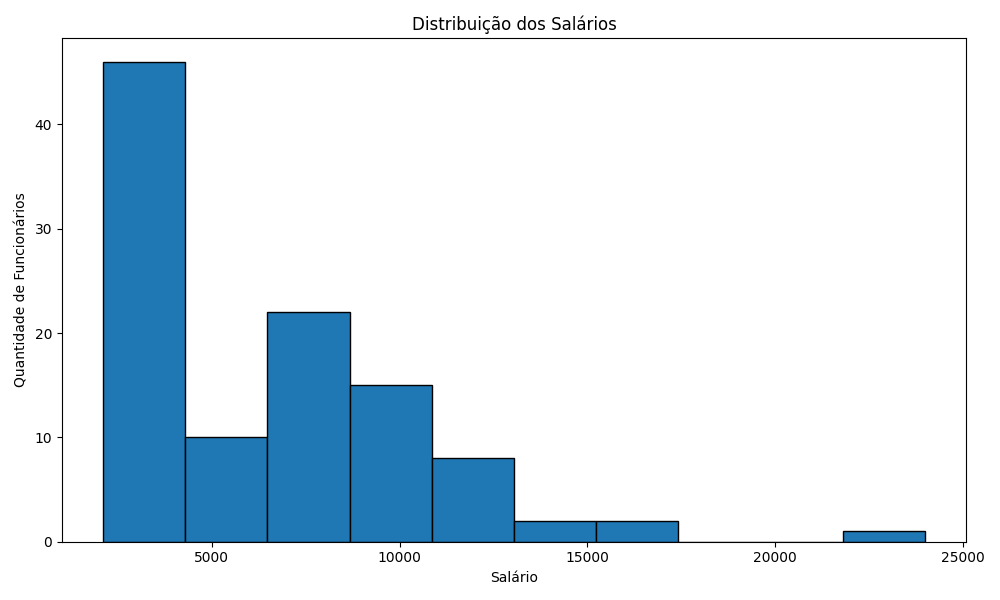
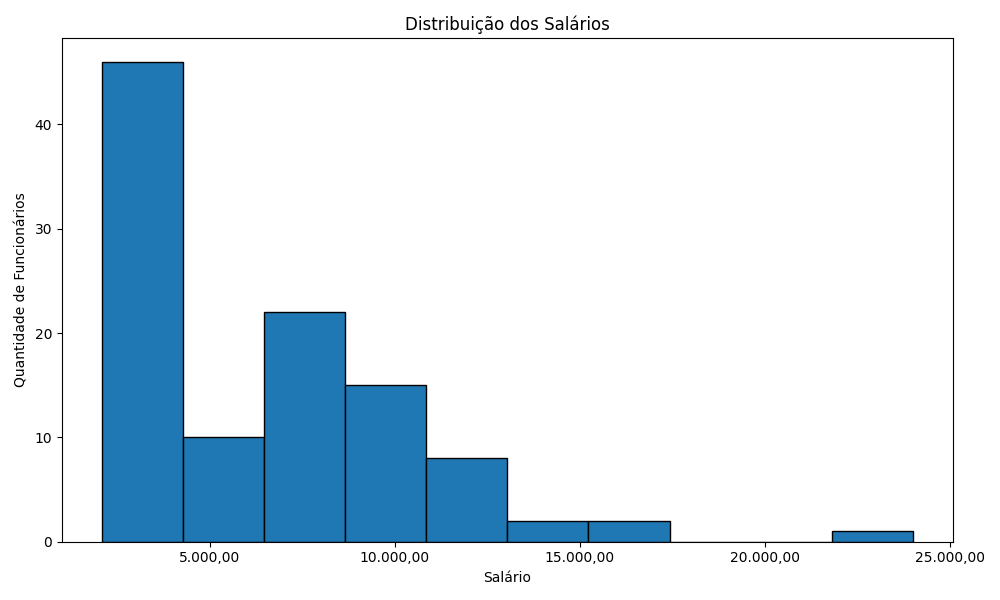
adiciona graficos ao README

diff --git a/projeto_final_s1.py b/projeto_final_s1.py
@@ -1,28 +1,26 @@
-# =====================================================
 # PROJETO FINAL - SEMESTRE 1
 # Análise Exploratória da Base HR
 # Aluno: Stefano Laurito
-# =====================================================
 
 import pandas as pd
 from pathlib import Path
 import matplotlib.pyplot as plt
+from matplotlib.ticker import FuncFormatter
 
-# =====================================================
+def formato_brasil(x, pos):
+    return f"{x:,.2f}".replace(",", "X").replace(".", ",").replace("X", ".")
+
 # ETAPA 1 - IMPORTAÇÃO DOS ARQUIVOS CSV
-# =====================================================
 
 pasta_projeto = Path(__file__).parent
 
-caminho_query1 = pasta_projeto / "consultas" / "query1.csv"
-caminho_query2 = pasta_projeto / "consultas" / "query2.csv"
+caminho_query1 = pasta_projeto / "consultas" / "query_01.csv"
+caminho_query2 = pasta_projeto / "consultas" / "query_02.csv"
 
 df_salarios = pd.read_csv(caminho_query1)
 df_regioes = pd.read_csv(caminho_query2)
 
-# =====================================================
 # ETAPA 2 - VISUALIZAÇÃO INICIAL DOS DADOS
-# =====================================================
 
 print("=" * 60)
 print("QUERY 1 - SALÁRIOS POR DEPARTAMENTO E CARGO")
@@ -36,9 +34,7 @@ print("QUERY 2 - FUNCIONÁRIOS POR REGIÃO")
 print("=" * 60)
 print(df_regioes.head())
 
-# =====================================================
 # ETAPA 3 - INFORMAÇÕES GERAIS
-# =====================================================
 
 print("\nINFORMAÇÕES DA QUERY 1")
 df_salarios.info()
@@ -46,9 +42,7 @@ df_salarios.info()
 print("\nINFORMAÇÕES DA QUERY 2")
 df_regioes.info()
 
-# =====================================================
 # ETAPA 4 - VERIFICAÇÃO DE VALORES NULOS
-# =====================================================
 
 print("\n" + "=" * 60)
 print("VALORES NULOS - QUERY 1")
@@ -73,9 +67,7 @@ if df_regioes["STATE_PROVINCE"].isnull().sum() == 1:
     print("A Query 2 apresentou apenas um valor nulo na coluna STATE_PROVINCE.")
     print("Como representa apenas um registro e não interfere nas análises salariais e geográficas, o dado será mantido.")
 
-# =====================================================
 # ETAPA 5 - VERIFICAÇÃO DE DUPLICATAS
-# =====================================================
 
 print("\n" + "=" * 60)
 print("REGISTROS DUPLICADOS")
@@ -87,9 +79,7 @@ duplicados_q2 = df_regioes.duplicated().sum()
 print(f"Duplicados na Query 1: {duplicados_q1}")
 print(f"Duplicados na Query 2: {duplicados_q2}")
 
-# =====================================================
 # ETAPA 6 - ESTATÍSTICAS DESCRITIVAS DOS SALÁRIOS
-# =====================================================
 
 print("\n" + "=" * 60)
 print("ESTATÍSTICAS DESCRITIVAS DOS SALÁRIOS")
@@ -103,17 +93,15 @@ maior = df_salarios["SALARY"].max()
 menor = df_salarios["SALARY"].min()
 quantidade = df_salarios["SALARY"].count()
 
-print(f"Média salarial: {media:.2f}")
-print(f"Mediana salarial: {mediana:.2f}")
-print(f"Desvio padrão: {desvio:.2f}")
-print(f"Moda: {moda}")
-print(f"Maior salário: {maior}")
-print(f"Menor salário: {menor}")
+print(f"Média salarial: {media:,.2f}".replace(",", "X").replace(".", ",").replace("X", "."))
+print(f"Mediana salarial: {mediana:,.2f}".replace(",", "X").replace(".", ",").replace("X", "."))
+print(f"Desvio padrão: {desvio:,.2f}".replace(",", "X").replace(".", ",").replace("X", "."))
+print(f"Moda: {moda:,}".replace(",", "."))
+print(f"Maior salário: {maior:,.2f}".replace(",", "X").replace(".", ",").replace("X", "."))
+print(f"Menor salário: {menor:,.2f}".replace(",", "X").replace(".", ",").replace("X", "."))
 print(f"Quantidade de funcionários: {quantidade}")
 
-# =====================================================
 # ETAPA 7 - AGRUPAMENTOS
-# =====================================================
 
 print("\n" + "=" * 60)
 print("SALÁRIO MÉDIO POR DEPARTAMENTO")
@@ -192,9 +180,7 @@ top_salarios = (
 
 print(top_salarios)
 
-# =====================================================
 # ETAPA 8 - GRÁFICOS
-# =====================================================
 
 # Gráfico 1 - Salário médio por departamento
 
@@ -203,11 +189,21 @@ plt.figure(figsize=(10,6))
 salario_departamento.plot(kind="barh")
 
 for i, v in enumerate(salario_departamento):
-    plt.text(v + 100, i, f"{v:.0f}", va="center")
+    plt.text(
+        v + 100,
+        i,
+        f"{v:,.0f}".replace(",", "X").replace(".", ",").replace("X", "."),
+        va="center"
+    )
+
+plt.xlim(right=salario_departamento.max() * 1.08)
+
+plt.gca().xaxis.set_major_formatter(FuncFormatter(formato_brasil))
 
 plt.title("Salário Médio por Departamento")
 plt.ylabel("Departamento")
 plt.xlabel("Salário Médio")
+plt.gca().xaxis.set_major_formatter(FuncFormatter(formato_brasil))
 
 plt.tight_layout()
 
@@ -270,6 +266,7 @@ plt.hist(
 
 plt.title("Distribuição dos Salários")
 plt.xlabel("Salário")
+plt.gca().xaxis.set_major_formatter(FuncFormatter(formato_brasil))
 plt.ylabel("Quantidade de Funcionários")
 
 plt.tight_layout()
@@ -279,27 +276,33 @@ plt.savefig("graficos/histograma_salarios.png")
 plt.show()
 
 
-# Gráfico 5 - Boxplot dos Salários
+# Gráfico 5 - Boxplot dos Salários por departamento
 
-plt.figure(figsize=(8,6))
+plt.figure(figsize=(12,6))
 
-plt.boxplot(
-    df_salarios["SALARY"],
-    vert=True
-)
+dados = []
+labels = []
 
-plt.title("Boxplot dos Salários")
+for departamento, grupo in df_salarios.groupby("DEPARTMENT_NAME"):
+    dados.append(grupo["SALARY"])
+    labels.append(departamento)
+
+plt.boxplot(dados, tick_labels=labels)
+
+plt.xticks(rotation=35, ha="right")
+
+plt.title("Distribuição dos Salários por Departamento")
+plt.xlabel("Departamento")
 plt.ylabel("Salário")
+plt.gca().yaxis.set_major_formatter(FuncFormatter(formato_brasil))
 
 plt.tight_layout()
 
-plt.savefig("graficos/boxplot_salarios.png")
+plt.savefig("graficos/boxplot_departamento.png")
 
 plt.show()
 
-# =====================================================
 # ETAPA 9 - CONCLUSÕES
-# =====================================================
 
 print("\n" + "=" * 60)
 print("CONCLUSÕES DA ANÁLISE")
@@ -320,4 +323,4 @@ print(f"- A maior parte dos funcionários está localizada na região {regiao_ma
 print("- Foi identificado apenas um valor nulo na coluna STATE_PROVINCE.")
 print("- Não foram encontrados registros duplicados.")
 
-print("\nProjeto finalizado com sucesso!")
+print("\nAnálise finalizada com sucesso!")